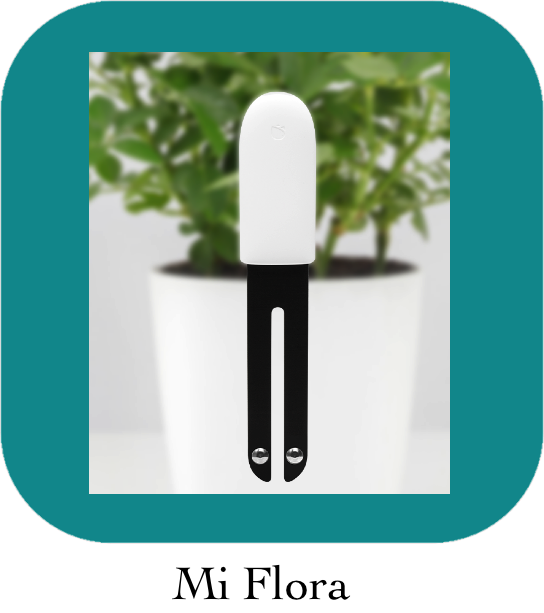
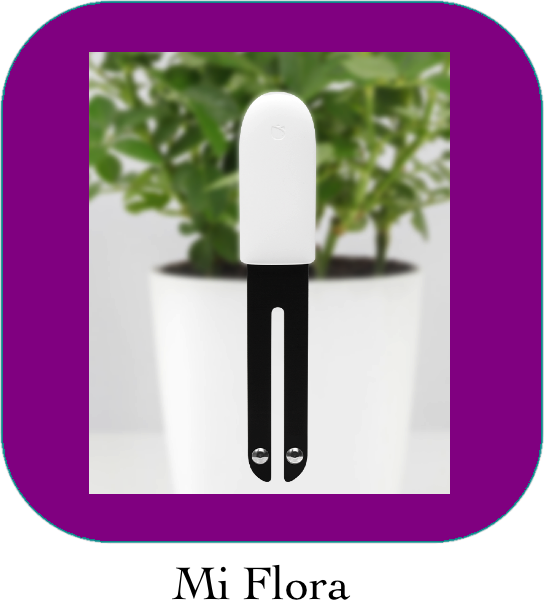
nouvelle icône, affichage en clair dans script python, MAJ FAQ

diff --git a/doc/fr_FR/index.html b/doc/fr_FR/index.html
@@ -569,6 +569,9 @@ Les informations statiques (batterie, nom de l appareil, version du firmware) so
 <div class="ulist">
 <ul>
 <li>
+<p>changer l&#8217;icone pour etre plus homogene avec Jeedom</p>
+</li>
+<li>
 <p>Support du firmware 2.6.6 et 2.7.0</p>
 </li>
 <li>

diff --git a/docs/index.html b/docs/index.html
@@ -569,6 +569,9 @@ Les informations statiques (batterie, nom de l appareil, version du firmware) so
 <div class="ulist">
 <ul>
 <li>
+<p>changer l&#8217;icone pour etre plus homogene avec Jeedom</p>
+</li>
+<li>
 <p>Support du firmware 2.6.6 et 2.7.0</p>
 </li>
 <li>

diff --git a/3rparty/getMiFloraData.py b/3rparty/getMiFloraData.py
@@ -21,6 +21,14 @@ import time
 LOGGER = logging.getLogger(__name__)
 LOCK = Lock()
 
+def parse_data(data):
+        res = {}
+        print("MI_TEMPERATURE=",float(data[1] * 256 + data[0]) / 10)
+        print("MI_MOISTURE=",data[7])
+        print("MI_LIGHT=", data[4] * 256 + data[3])
+        print("MI_CONDUCTIVITY=", data[9] * 256 + data[8])
+        return data
+
 def write_ble(mac, handle, value, retries=3, timeout=20):
     """
     Read from a BLE address
@@ -108,6 +116,6 @@ macAdd=sys.argv[1]
 handlerd="0x0035"
 handlewr="0x0033"
 firmware=sys.argv[2]
-if firmware == "2.6.6":
+if firmware == "2.6.6" or firmware == "2.7.0":
     write_ble(macAdd,handlewr,"A01F",0)
-print ("read_ble:",read_ble(macAdd,handlerd))
+print ("read_ble:",parse_data(read_ble(macAdd,handlerd)))
